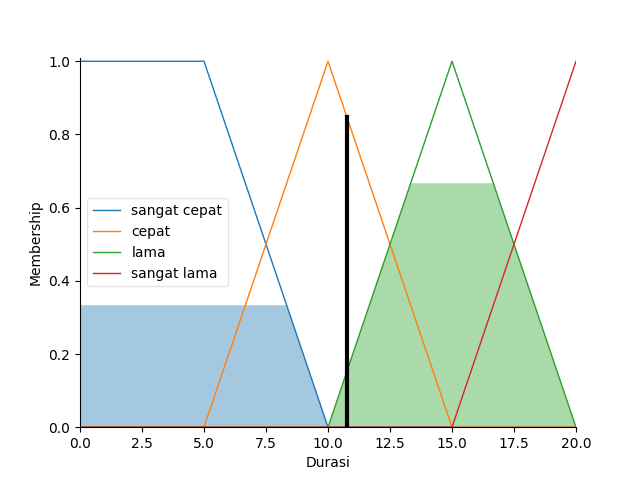
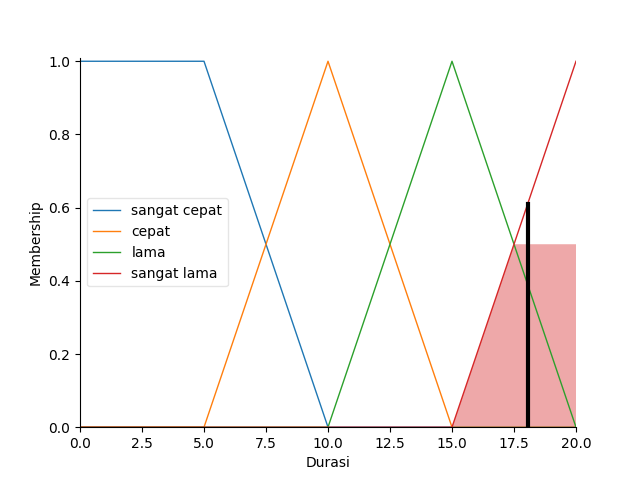
update

Changed region(s): [[0.125, 0.25, 0.9062, 0.9062]]

diff --git a/app.py b/app.py
@@ -5,57 +5,48 @@ app = Flask(__name__)
 
 @app.route('/', methods=['GET', 'POST'])
 def index():
+    context = {
+        "kepadatan": 0,
+        "waktu": 0,
+        "hasil": 0,
+        "img_kepadatan": "kepadatan.png",
+        "img_waktu": "waktu.png",
+        "img_durasi": "durasi.png",
+    }
+    
     if request.method == 'POST':
-        kepadatan = float(request.form['kepadatan'])
-        waktu = float(request.form['waktu'])
-        hasil = get(kepadatan, waktu)
-        context = {
-            "kepadatan": kepadatan,
-            "waktu": waktu,
-            "hasil": hasil,
-        }
-        return render_template_string("""
-            <body style="display:flex; width: 100vw; justify-content: center; align-items: center; margin-top: 2rem;">
-                <div>
-                    <h1 style="width: 100%; justify-content: center;">Traffic Light Berbasis Logika Fuzzy </h1>
-                    <form style="margin-top: 2rem;"  method="post">
-                        <label for="kepadatan">Kepadatan</label>
-                        <input type="number" placeholder="kepadatan" id="kepadatan" name="kepadatan" value="{{ context.kepadatan }}"/>
-                        <label for="waktu">Waktu</label>
-                        <input type="number" placeholder="waktu" id="waktu" name="waktu" value="{{ context.waktu }}"/>
-                        <button type="submit">Hitung</button>
-                    </form>
-                    <h4 style="width: 100%; justify-content: center;">Durasi Lampu = {{ context.hasil }}</h4>
-                    <h3 style="width: 100%; justify-content: center; margin-top: 2rem;">Fungsi Keanggotaan Input Kepadatan</h3>
-                    <img src="{{ url_for('static', filename='kepadatan_hasil.png') }}" alt="kepadatan"/>
-                    <h3 style="width: 100%; justify-content: center; margin-top: 2rem;">Fungsi Keanggotaan Input Waktu</h3>
-                    <img src="{{ url_for('static', filename='waktu_hasil.png') }}" alt="waktu"/>
-                    <h3 style="width: 100%; justify-content: center; margin-top: 2rem;">Fungsi Keanggotaan Output Durasi</h3>
-                    <img src="{{ url_for('static', filename='durasi_hasil.png') }}" alt="durasi"/>
-                </div>
-            </body>
-            """, context=context)
+        kepadatan = request.form.get('kepadatan', type=float, default=0)
+        waktu = request.form.get('waktu', type=float, default=0)
+        context["hasil"] = get(kepadatan, waktu)
+        context["kepadatan"] = kepadatan
+        context["waktu"] = waktu
+        context["img_kepadatan"] = "kepadatan_hasil.png"
+        context["img_waktu"] = "waktu_hasil.png"
+        context["img_durasi"] = "durasi_hasil.png"
 
     return render_template_string("""
         <body style="display:flex; width: 100vw; justify-content: center; align-items: center; margin-top: 2rem;">
             <div>
-                <h1 style="width: 100%; justify-content: center;">Traffic Light Berbasis Logika Fuzzy </h1>
-                <form style="margin-top: 2rem;"  method="post">
+                <h1 style="text-align: center;">Traffic Light Berbasis Logika Fuzzy</h1>
+                <form style="margin-top: 2rem;" method="post">
                     <label for="kepadatan">Kepadatan</label>
-                    <input type="number" placeholder="kepadatan" id="kepadatan" name="kepadatan" />
+                    <input type="number" step="any" placeholder="kepadatan" id="kepadatan" name="kepadatan" value="{{ context.kepadatan }}"/>
                     <label for="waktu">Waktu</label>
-                    <input type="number" placeholder="waktu" id="waktu" name="waktu" />
+                    <input type="number" step="any" placeholder="waktu" id="waktu" name="waktu" value="{{ context.waktu }}"/>
                     <button type="submit">Hitung</button>
                 </form>
-                <h3 style="width: 100%; justify-content: center; margin-top: 2rem;">Fungsi Keanggotaan Input Kepadatan</h3>
-                <img src="{{ url_for('static', filename='kepadatan.png') }}" alt="kepadatan"/>
-                <h3 style="width: 100%; justify-content: center; margin-top: 2rem;">Fungsi Keanggotaan Input Waktu</h3>
-                <img src="{{ url_for('static', filename='waktu.png') }}" alt="waktu"/>
-                <h3 style="width: 100%; justify-content: center; margin-top: 2rem;">Fungsi Keanggotaan Output Durasi</h3>
-                <img src="{{ url_for('static', filename='durasi.png') }}" alt="durasi"/>
+                {% if context.hasil != 0 %}
+                <h4>Durasi Lampu = {{ context.hasil }}</h4>
+                {% endif %}
+                <h3 style="text-align: center; margin-top: 2rem;">Fungsi Keanggotaan Input Kepadatan</h3>
+                <img src="{{ url_for('static', filename=context.img_kepadatan) }}" alt="kepadatan"/>
+                <h3 style="text-align: center; margin-top: 2rem;">Fungsi Keanggotaan Input Waktu</h3>
+                <img src="{{ url_for('static', filename=context.img_waktu) }}" alt="waktu"/>
+                <h3 style="text-align: center; margin-top: 2rem;">Fungsi Keanggotaan Output Durasi</h3>
+                <img src="{{ url_for('static', filename=context.img_durasi) }}" alt="durasi"/>
             </div>
         </body>
-        """)
+        """, context=context)
 
 if __name__ == "__main__":
     app.run(debug=True)
